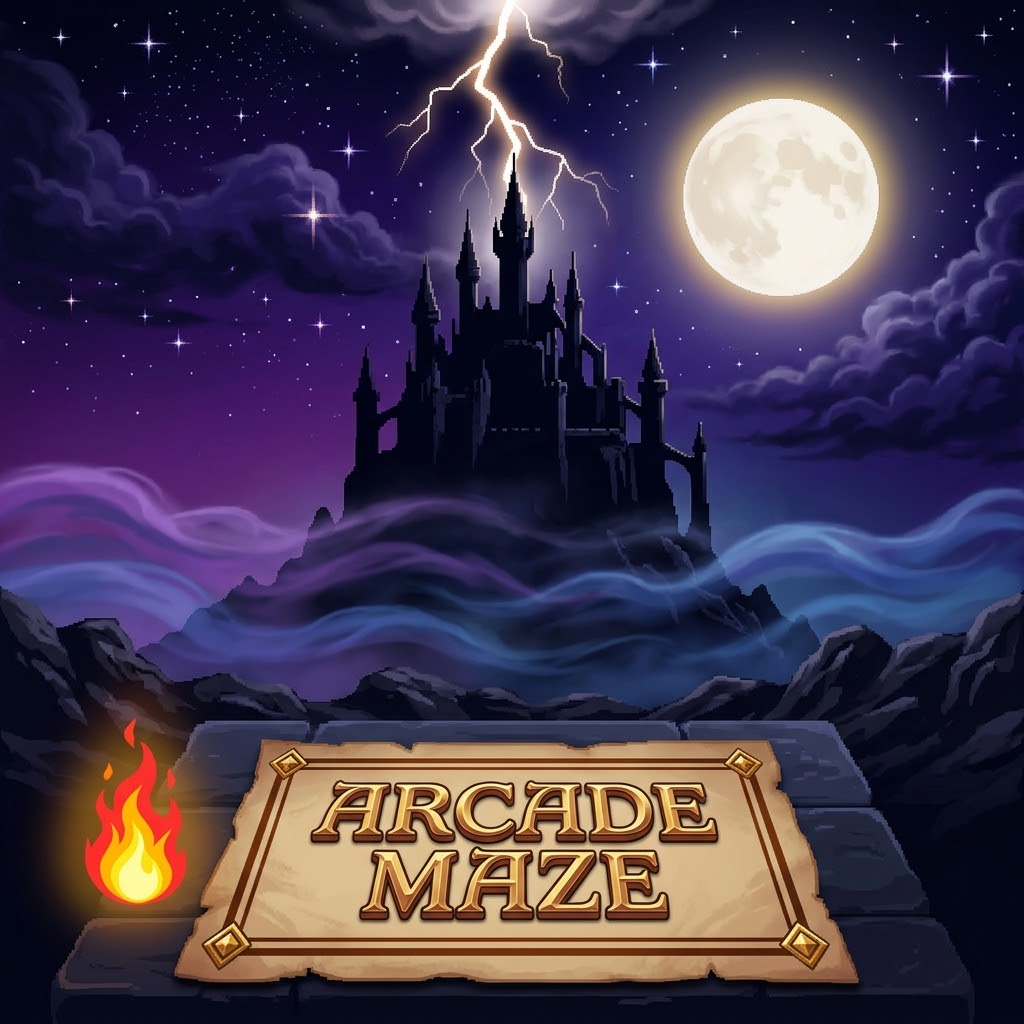
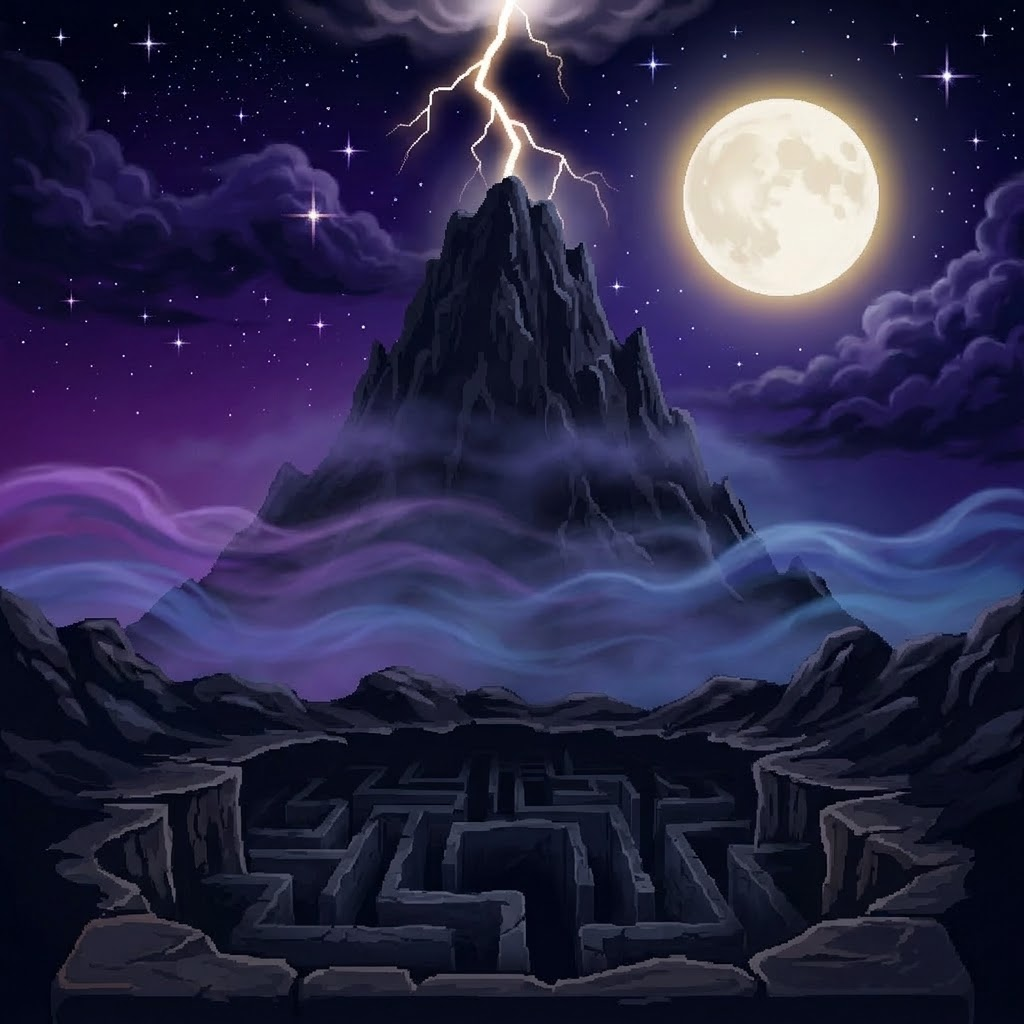
Fix: sostituita immagine menu + adattato rendering per evitare ridondanze
Sostituito bg_menu.jpg con la nuova immagine (main menu 2.jpg) che mostra
un paesaggio fantasy completo: montagna con fulmine, luna piena, stelle,
nebbia viola, labirinto di pietra in basso.

ADATTAMENTO drawMenu():
L'immagine nuova contiene gia' tutti gli elementi atmosferici che prima
venivano disegnati proceduralmente (stelle, luna, nebbia, fulmine).
Disegnarli sopra l'immagine sarebbe ridondante e appesantirebbe la scena.

Quando bgMenuLoaded e' true, ora vengono SALTATI:
- Stelle (140 punti con cross luminose)
- Nebbia bassa (3 strati sinusoidali viola/azzurri)
- Luna con alone e crateri
- Effetto fulmine (flash bianco + saetta zigzag)

Vengono INVECE MANTENUTI (elementi UI interattivi):
- Titolo 'ARCADE MAZE' in oro con ombra 3D
- Ornamento linea+diamanti oro
- Crediti 'By Luca A. Greco'
- Pergamena con doppia cornice e angoli dorati
- 6 voci di menu con fiammella pulsante
- Istruzioni in basso

menuTime continua ad aggiornarsi (usato per l'animazione della fiammella).

Quando l'immagine NON e' caricata (fallback), tutti gli elementi
atmosferici vengono disegnati come prima (gradiente + stelle + luna +
nebbia + fulmine).

diff --git a/src/Game.cpp b/src/Game.cpp
@@ -3820,96 +3820,102 @@ void Game::drawMenu() {
         }
     }
 
-    // --- Stelle: seed fisso per layout stabile ---
-    srand(42);
-    for(int i=0; i<140; i++) {
-        // Stelle leggermente variate: alcune grandi, altre piccole
-        float radius = 0.8f + (rand() % 30) * 0.05f;
-        sf::CircleShape star(radius);
-        // Colore: bianco/giallo/azzurro per dare profondita' al cielo
-        sf::Uint8 br = 150 + (sf::Uint8)(rand() % 105);
-        int tint = rand() % 3;
-        sf::Color col = (tint == 0) ? sf::Color(255, 255, 220, br) :
-                        (tint == 1) ? sf::Color(200, 220, 255, br) :
-                                      sf::Color(255, 240, 200, br);
-        star.setFillColor(col);
-        star.setPosition((float)(rand()%WINDOW_WIDTH), (float)(rand()%(WINDOW_HEIGHT - 200)));
-        window.draw(star);
-        // Aggiungi un piccolo "cross" di luce alle stelle piu' grandi
-        if (radius > 1.8f) {
-            sf::RectangleShape cross1(sf::Vector2f(radius * 5.f, 1.f));
-            cross1.setFillColor(sf::Color(255, 255, 200, br / 3));
-            cross1.setPosition(star.getPosition().x - radius * 2.f, star.getPosition().y + radius * 0.5f);
-            window.draw(cross1);
-            sf::RectangleShape cross2(sf::Vector2f(1.f, radius * 5.f));
-            cross2.setFillColor(sf::Color(255, 255, 200, br / 3));
-            cross2.setPosition(star.getPosition().x + radius * 0.5f, star.getPosition().y - radius * 2.f);
-            window.draw(cross2);
-        }
-    }
-    // Ripristina il seed randomico per il resto del gioco
-    srand((unsigned int)time(NULL));
-
-    // --- Nebbia bassa: onde semitrasparenti viola/azzurre ---
-    // 3 strati di nebbia che fluttuano lentamente con animazione sinusoidale.
-    // L'animazione usa un tempo derivato da lightningTimer? No, sarebbe troppo
-    // instabile: usiamo una static che persiste tra le frame.
+    // --- Elementi atmosferici (solo se NON si usa l'immagine di sfondo) ---
+    // L'immagine bg_menu.jpg contiene gia' stelle, luna, nebbia e fulmine,
+    // quindi disegnarli sopra sarebbe ridondante. Li saltiamo quando lo
+    // sfondo e' caricato. Manteniamo invece menuTime (usato per la fiammella)
+    // e tutti gli elementi UI (titolo, pergamena, voci).
     static float menuTime = 0.f;
     menuTime += 0.016f;
-    for (int layer = 0; layer < 3; layer++) {
-        sf::Color fogCol = (layer == 0) ? sf::Color(80, 40, 120, 60) :
-                           (layer == 1) ? sf::Color(60, 70, 130, 50) :
-                                          sf::Color(40, 50, 100, 40);
-        float yBase = WINDOW_HEIGHT - 180.f + layer * 30.f;
-        for (int x = 0; x < WINDOW_WIDTH; x += 16) {
-            float y = yBase + sinf(menuTime * 0.5f + (float)x * 0.01f + (float)layer) * 15.f;
-            sf::CircleShape fog(40.f);
-            fog.setFillColor(fogCol);
-            fog.setPosition((float)x - 40.f, y - 40.f);
-            window.draw(fog);
+
+    if (!bgMenuLoaded) {
+        // --- Stelle: seed fisso per layout stabile ---
+        srand(42);
+        for(int i=0; i<140; i++) {
+            // Stelle leggermente variate: alcune grandi, altre piccole
+            float radius = 0.8f + (rand() % 30) * 0.05f;
+            sf::CircleShape star(radius);
+            // Colore: bianco/giallo/azzurro per dare profondita' al cielo
+            sf::Uint8 br = 150 + (sf::Uint8)(rand() % 105);
+            int tint = rand() % 3;
+            sf::Color col = (tint == 0) ? sf::Color(255, 255, 220, br) :
+                            (tint == 1) ? sf::Color(200, 220, 255, br) :
+                                          sf::Color(255, 240, 200, br);
+            star.setFillColor(col);
+            star.setPosition((float)(rand()%WINDOW_WIDTH), (float)(rand()%(WINDOW_HEIGHT - 200)));
+            window.draw(star);
+            // Aggiungi un piccolo "cross" di luce alle stelle piu' grandi
+            if (radius > 1.8f) {
+                sf::RectangleShape cross1(sf::Vector2f(radius * 5.f, 1.f));
+                cross1.setFillColor(sf::Color(255, 255, 200, br / 3));
+                cross1.setPosition(star.getPosition().x - radius * 2.f, star.getPosition().y + radius * 0.5f);
+                window.draw(cross1);
+                sf::RectangleShape cross2(sf::Vector2f(1.f, radius * 5.f));
+                cross2.setFillColor(sf::Color(255, 255, 200, br / 3));
+                cross2.setPosition(star.getPosition().x + radius * 0.5f, star.getPosition().y - radius * 2.f);
+                window.draw(cross2);
+            }
         }
-    }
+        // Ripristina il seed randomico per il resto del gioco
+        srand((unsigned int)time(NULL));
 
-    // --- Luna con alone luminoso e due crateri ---
-    // Alone esterno: grande cerchio semitrasparente giallo-avorio
-    sf::CircleShape moonGlow(140.f);
-    moonGlow.setFillColor(sf::Color(230, 230, 180, 40));
-    moonGlow.setPosition(WINDOW_WIDTH - 240.f, 40.f);
-    window.draw(moonGlow);
-    sf::CircleShape moonGlow2(110.f);
-    moonGlow2.setFillColor(sf::Color(240, 240, 200, 60));
-    moonGlow2.setPosition(WINDOW_WIDTH - 210.f, 70.f);
-    window.draw(moonGlow2);
-    // Luna piena
-    sf::CircleShape moon(80.f);
-    moon.setFillColor(sf::Color(240, 240, 200));
-    moon.setOutlineThickness(4.f);
-    moon.setOutlineColor(sf::Color(200, 200, 150));
-    moon.setPosition(WINDOW_WIDTH - 200.f, 100.f);
-    window.draw(moon);
-    // Crateri
-    sf::CircleShape crater1(10.f); crater1.setFillColor(sf::Color(210, 210, 160));
-    crater1.setPosition(WINDOW_WIDTH - 160.f, 140.f); window.draw(crater1);
-    crater1.setPosition(WINDOW_WIDTH - 180.f, 180.f); window.draw(crater1);
-    crater1.setRadius(6.f); crater1.setPosition(WINDOW_WIDTH - 140.f, 170.f); window.draw(crater1);
+        // --- Nebbia bassa: onde semitrasparenti viola/azzurre ---
+        // 3 strati di nebbia che fluttuano lentamente con animazione sinusoidale.
+        for (int layer = 0; layer < 3; layer++) {
+            sf::Color fogCol = (layer == 0) ? sf::Color(80, 40, 120, 60) :
+                               (layer == 1) ? sf::Color(60, 70, 130, 50) :
+                                              sf::Color(40, 50, 100, 40);
+            float yBase = WINDOW_HEIGHT - 180.f + layer * 30.f;
+            for (int x = 0; x < WINDOW_WIDTH; x += 16) {
+                float y = yBase + sinf(menuTime * 0.5f + (float)x * 0.01f + (float)layer) * 15.f;
+                sf::CircleShape fog(40.f);
+                fog.setFillColor(fogCol);
+                fog.setPosition((float)x - 40.f, y - 40.f);
+                window.draw(fog);
+            }
+        }
 
-    // --- Effetto fulmine: flash bianco che si dissolve + saetta verticale a zigzag ---
-    if (lightningTimer > 0) {
-        sf::RectangleShape flash(sf::Vector2f(WINDOW_WIDTH, WINDOW_HEIGHT));
-        // Intensita' proporzionale al tempo residuo (fade out)
-        flash.setFillColor(sf::Color(255, 255, 255, (sf::Uint8)(150 * (lightningTimer / 10.f))));
-        window.draw(flash);
-        // Disegna il fulmine solo nei primi 5 frame (parte alta durata)
-        if (lightningTimer > 5) {
-            sf::Color lightningCol(255, 255, 200);
-            float lx = WINDOW_WIDTH / 2.0f + (float)(rand()%400 - 200);
-            for (int i = 0; i < 6; i++) {
-                sf::RectangleShape line(sf::Vector2f(6.f, 100.f));
-                line.setFillColor(lightningCol);
-                line.setPosition(lx, i * 100.f);
-                line.rotate((float)(rand()%30 - 15));  // inclinazione casuale per zigzag
-                window.draw(line);
-                lx += (rand()%100 - 50);
+        // --- Luna con alone luminoso e due crateri ---
+        // Alone esterno: grande cerchio semitrasparente giallo-avorio
+        sf::CircleShape moonGlow(140.f);
+        moonGlow.setFillColor(sf::Color(230, 230, 180, 40));
+        moonGlow.setPosition(WINDOW_WIDTH - 240.f, 40.f);
+        window.draw(moonGlow);
+        sf::CircleShape moonGlow2(110.f);
+        moonGlow2.setFillColor(sf::Color(240, 240, 200, 60));
+        moonGlow2.setPosition(WINDOW_WIDTH - 210.f, 70.f);
+        window.draw(moonGlow2);
+        // Luna piena
+        sf::CircleShape moon(80.f);
+        moon.setFillColor(sf::Color(240, 240, 200));
+        moon.setOutlineThickness(4.f);
+        moon.setOutlineColor(sf::Color(200, 200, 150));
+        moon.setPosition(WINDOW_WIDTH - 200.f, 100.f);
+        window.draw(moon);
+        // Crateri
+        sf::CircleShape crater1(10.f); crater1.setFillColor(sf::Color(210, 210, 160));
+        crater1.setPosition(WINDOW_WIDTH - 160.f, 140.f); window.draw(crater1);
+        crater1.setPosition(WINDOW_WIDTH - 180.f, 180.f); window.draw(crater1);
+        crater1.setRadius(6.f); crater1.setPosition(WINDOW_WIDTH - 140.f, 170.f); window.draw(crater1);
+
+        // --- Effetto fulmine: flash bianco che si dissolve + saetta verticale a zigzag ---
+        if (lightningTimer > 0) {
+            sf::RectangleShape flash(sf::Vector2f(WINDOW_WIDTH, WINDOW_HEIGHT));
+            // Intensita' proporzionale al tempo residuo (fade out)
+            flash.setFillColor(sf::Color(255, 255, 255, (sf::Uint8)(150 * (lightningTimer / 10.f))));
+            window.draw(flash);
+            // Disegna il fulmine solo nei primi 5 frame (parte alta durata)
+            if (lightningTimer > 5) {
+                sf::Color lightningCol(255, 255, 200);
+                float lx = WINDOW_WIDTH / 2.0f + (float)(rand()%400 - 200);
+                for (int i = 0; i < 6; i++) {
+                    sf::RectangleShape line(sf::Vector2f(6.f, 100.f));
+                    line.setFillColor(lightningCol);
+                    line.setPosition(lx, i * 100.f);
+                    line.rotate((float)(rand()%30 - 15));  // inclinazione casuale per zigzag
+                    window.draw(line);
+                    lx += (rand()%100 - 50);
+                }
             }
         }
     }
